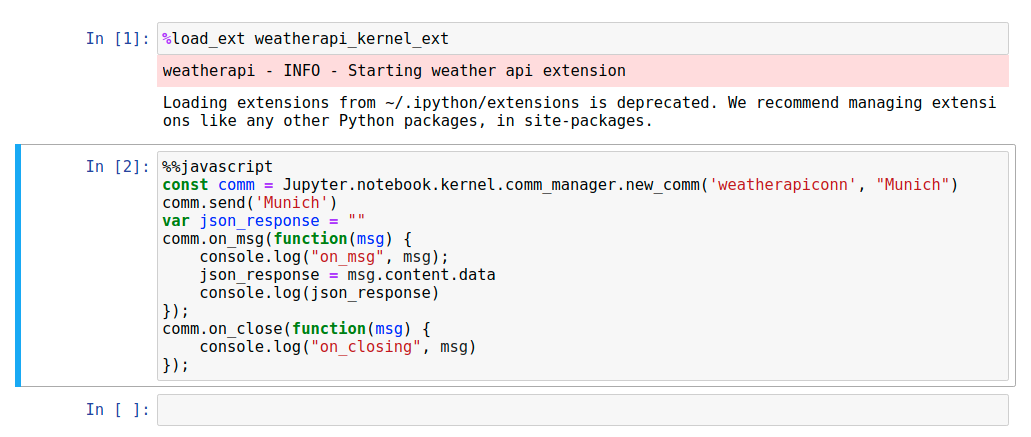
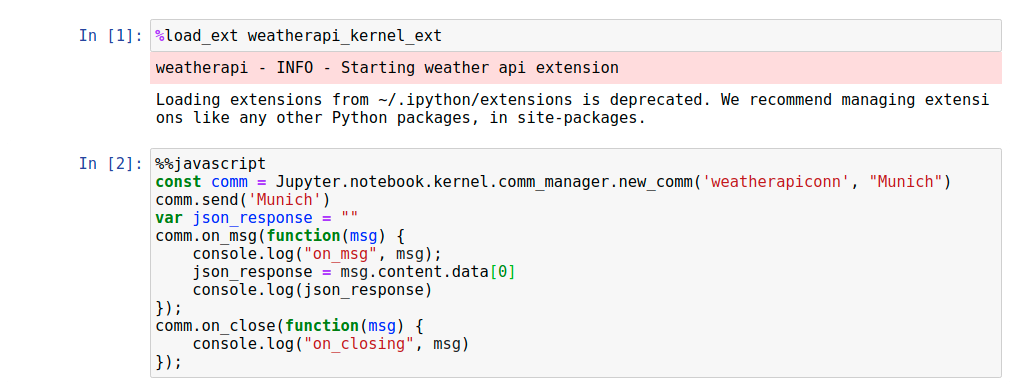
update readme

Changed region(s): [[0.0, 0.0625, 1.0, 0.9688], [0.9725, 0.375, 1.0, 0.875], [0.851, 0.4062, 0.9422, 0.5]]

diff --git a/jupyterlab_weatherapi/README.md b/jupyterlab_weatherapi/README.md
@@ -1,55 +1,22 @@
 # jupyterlab_weatherapi
 
-![Github Actions Status](https://github.com/my_name/myextension/workflows/Build/badge.svg)
-
-A simple weather API extension for JupyterLab panel
-
-
-## Requirements
-
-* JupyterLab >= 1.0
-
-## Install
-
-```bash
-jupyter labextension install jupyterlab_weatherapi
-```
-
-## Contributing
-
-### Install
-
-The `jlpm` command is JupyterLab's pinned version of
-[yarn](https://yarnpkg.com/) that is installed with JupyterLab. You may use
-`yarn` or `npm` in lieu of `jlpm` below.
-
-```bash
-# Clone the repo to your local environment
-# Move to jupyterlab_weatherapi directory
 # Install dependencies
 jlpm
 # Build Typescript source
 jlpm build
-# Link your development version of the extension with JupyterLab
-jupyter labextension link .
+
 # Rebuild Typescript source after making changes
 jlpm build
+
 # Rebuild JupyterLab after making any changes
 jupyter lab build
 ```
 
-You can watch the source directory and run JupyterLab in watch mode to watch for changes in the extension's source and automatically rebuild the extension and application.
-
+You can watch the source directory and run JupyterLab in watch mode.
 ```bash
 # Watch the source directory in another terminal tab
 jlpm watch
 # Run jupyterlab in watch mode in one terminal tab
 jupyter lab --watch
-```
-
-### Uninstall
-
-```bash
-jupyter labextension uninstall jupyterlab_weatherapi
 ```
 

diff --git a/README.md b/README.md
@@ -63,7 +63,7 @@ There are 2 options available:
   * To use the kernel extension, copy the weatherapi_kernel_ext.py into .ipyton directory
   * To load the extension use %load_ext weatherapi_kernel_ext
    ![screenshot_kernel.png](figures/extension_kernel.png "screenshot_kernel.png")
-  * the output should look like this
+  * the json_response variable should look like this
     ```shell
     {"current": {"cloudcover": 25, "feelslike": 1, "humidity": 41, "is_day": "yes", "observation_time": "04:31 PM", "precip": 0, "pressure": 1024, "temperature": 5, "uv_index": 4, "visibility": 10, "weather_code": 116, "weather_descriptions": ["Partly cloudy"], "weather_icons": ["https://assets.weatherstack.com/images/wsymbols01_png_64/wsymbol_0002_sunny_intervals.png"], "wind_degree": 10, "wind_dir": "N", "wind_speed": 19}, "location": {"country": "Germany", "lat": "48.150", "localtime": "2020-03-31 18:31", "localtime_epoch": 1585679460, "lon": "11.583", "name": "Munich", "region": "Bayern", "timezone_id": "Europe/Berlin", "utc_offset": "2.0"}, "request": {"language": "en", "query": "Munich, Germany", "type": "City", "unit": "m"}}
     ```
